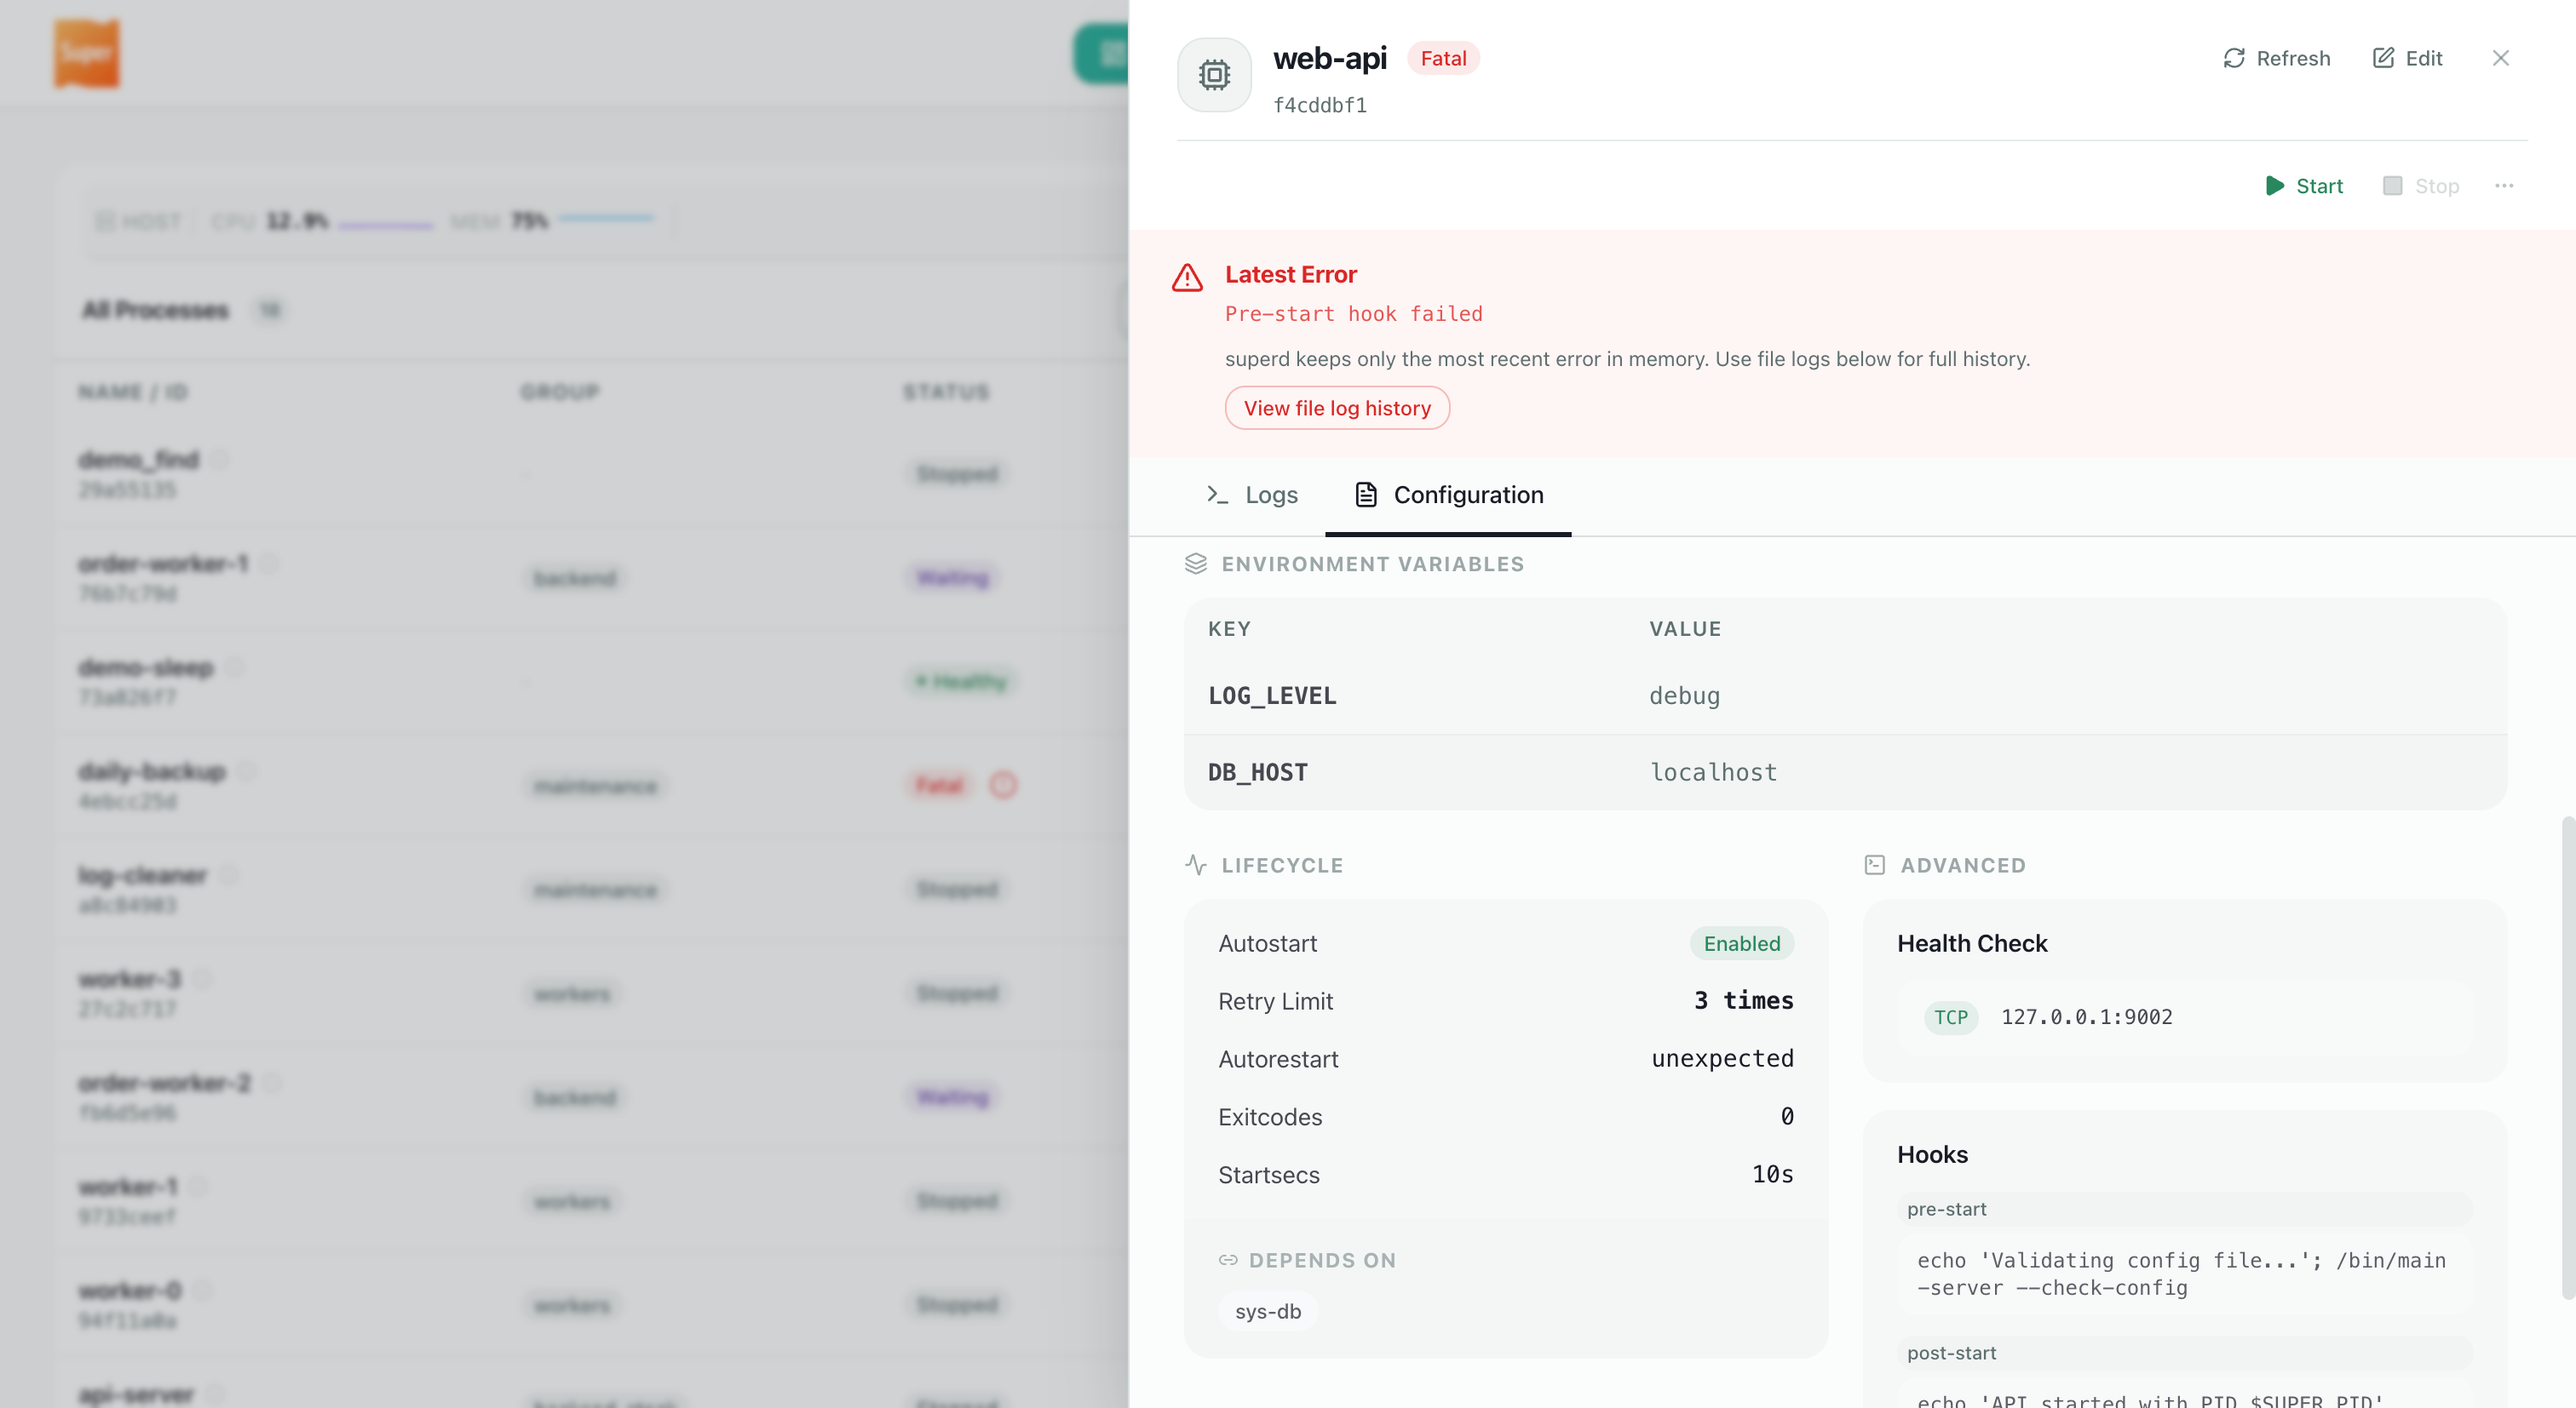
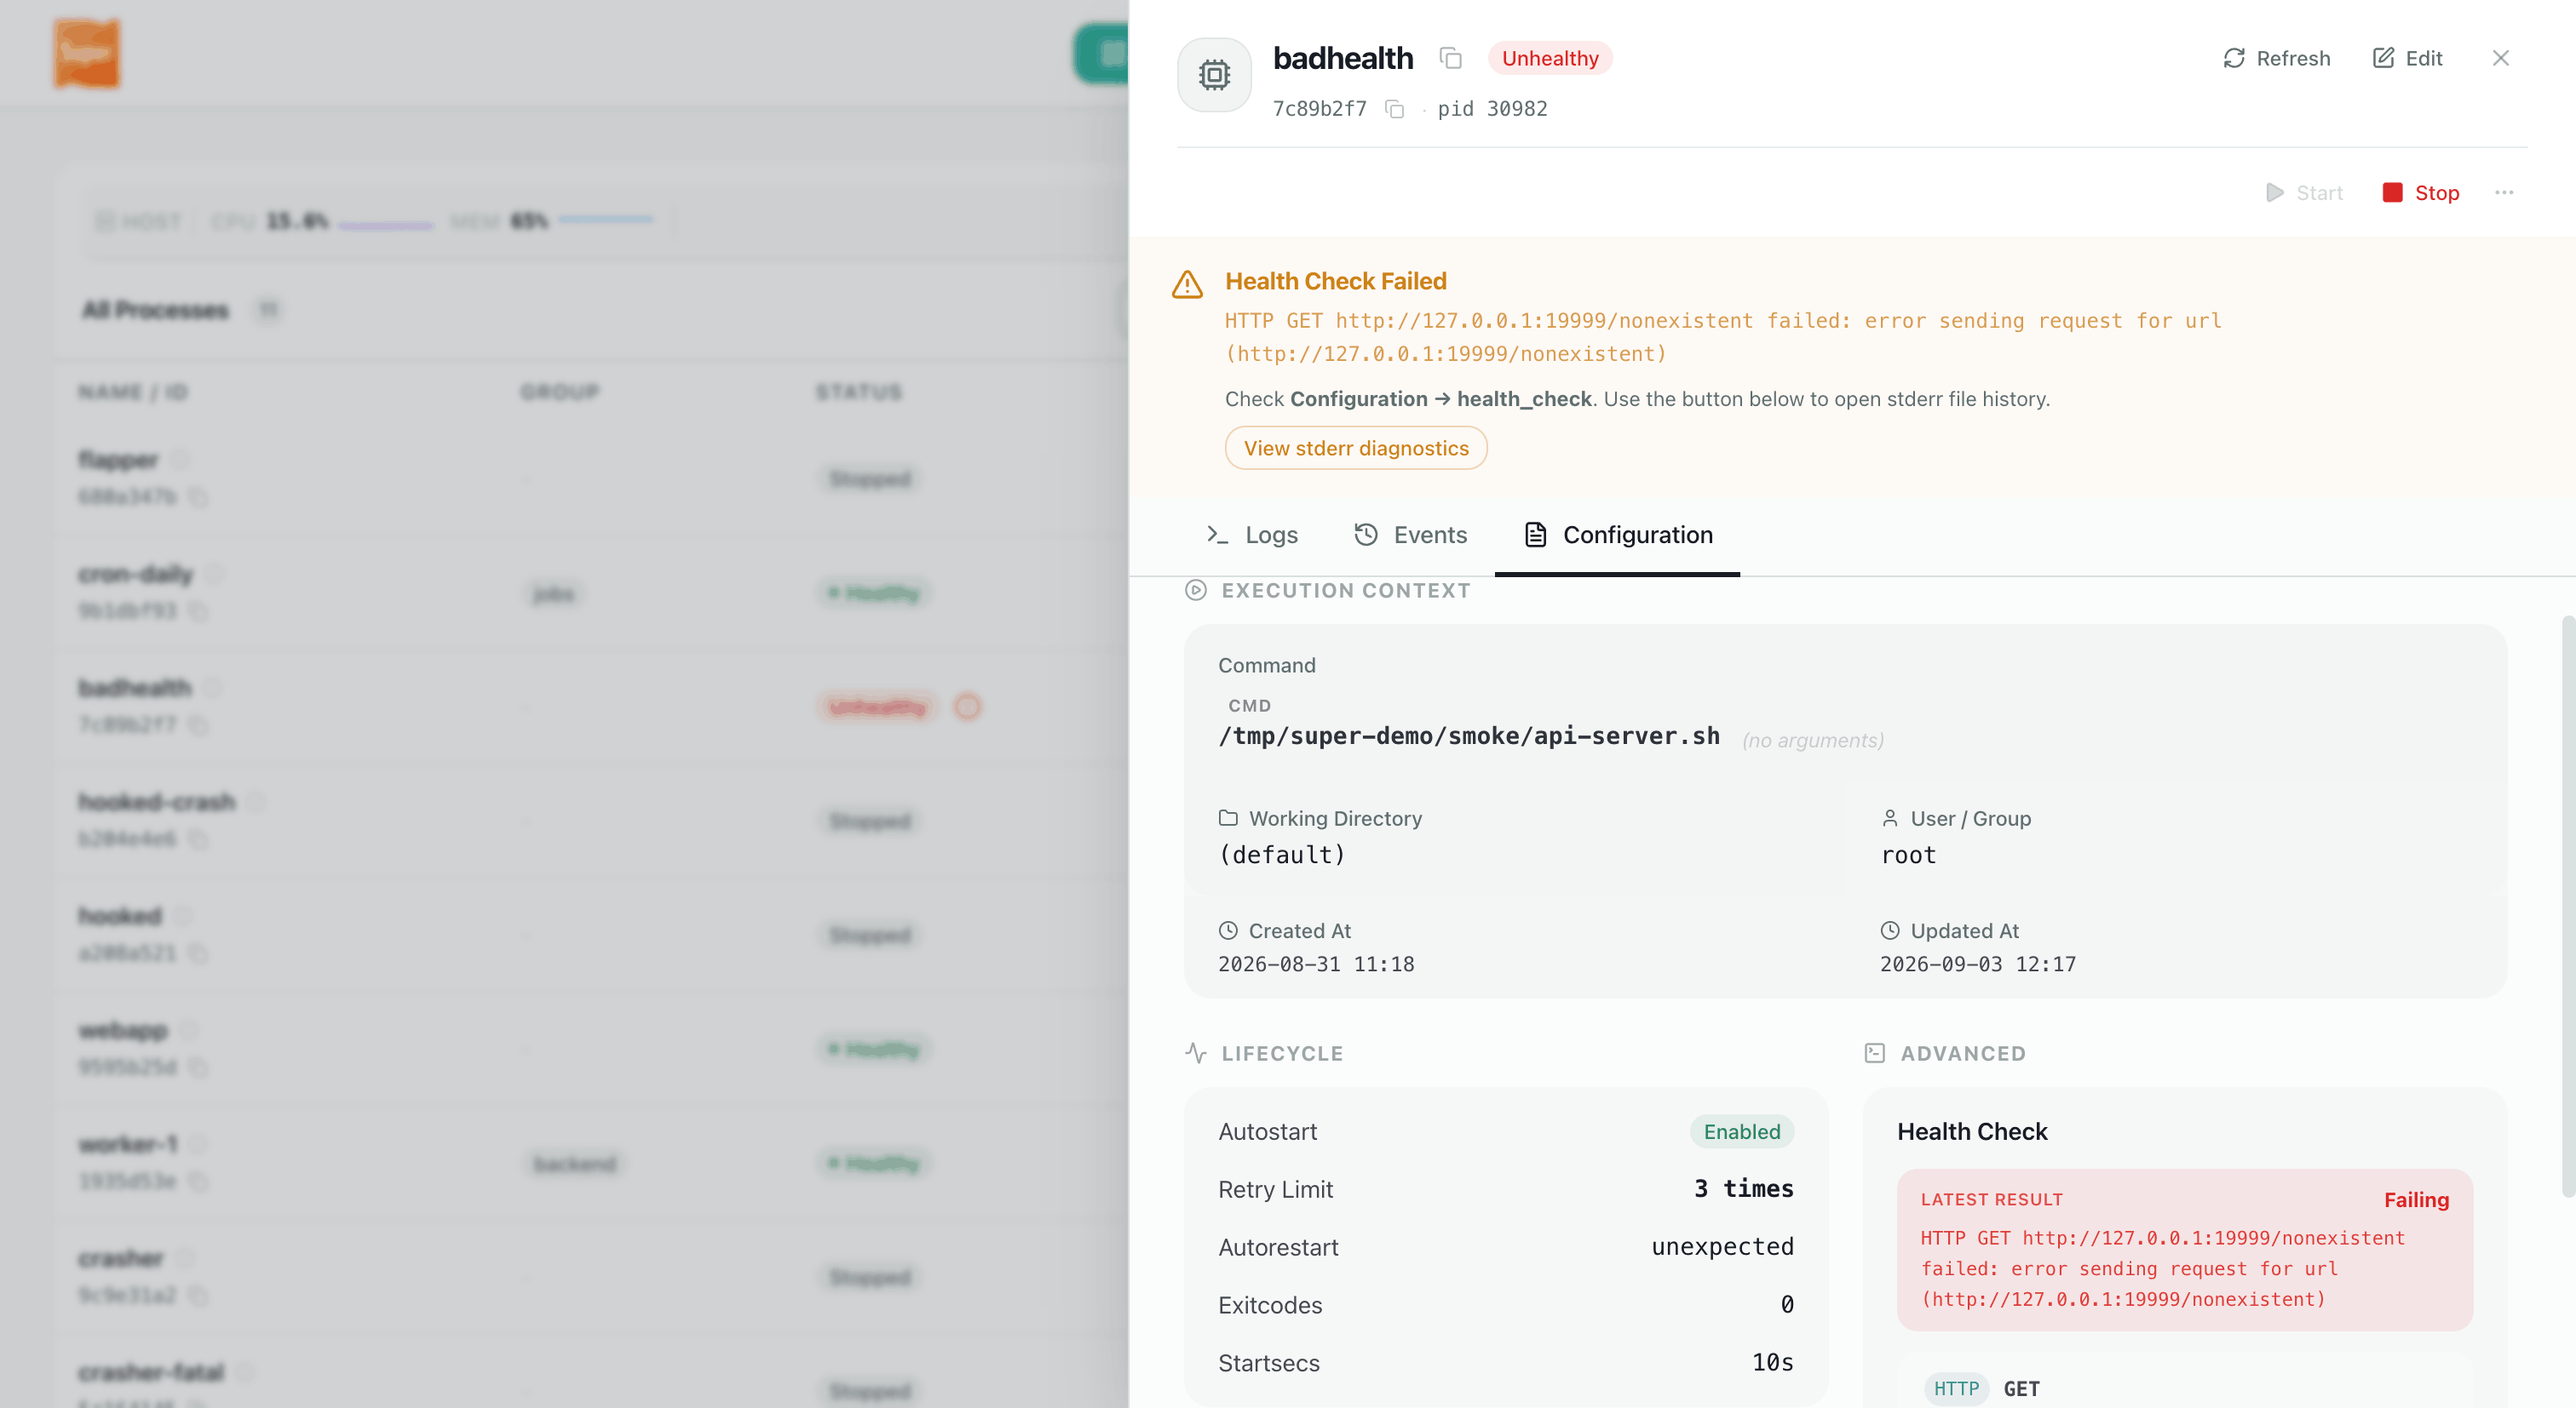
docs: refresh Dashboard screenshots and notify rules image
Update program detail/log screenshots and point the Inhibition rules tab
at notify_rules.png.

diff --git a/docs/content/docs/05-advanced-management/web-ui.md b/docs/content/docs/05-advanced-management/web-ui.md
@@ -68,7 +68,7 @@ Live stdout/stderr streaming from the process detail drawer, plus file log histo
 
 See [Event notifications](/docs/05-advanced-management/event-notifications#storm-suppression) and [Delivery history](/docs/05-advanced-management/event-notifications#delivery-history).
 
-{{< ui-screenshot src="/images/notify_mute.png" alt="Notification settings — Inhibition rules" caption="Notifications — Inhibition rules" >}}
+{{< ui-screenshot src="/images/notify_rules.png" alt="Notification settings — Inhibition rules" caption="Notifications — Inhibition rules" >}}
   {{< /tab >}}
 
 {{< /tabs >}}
